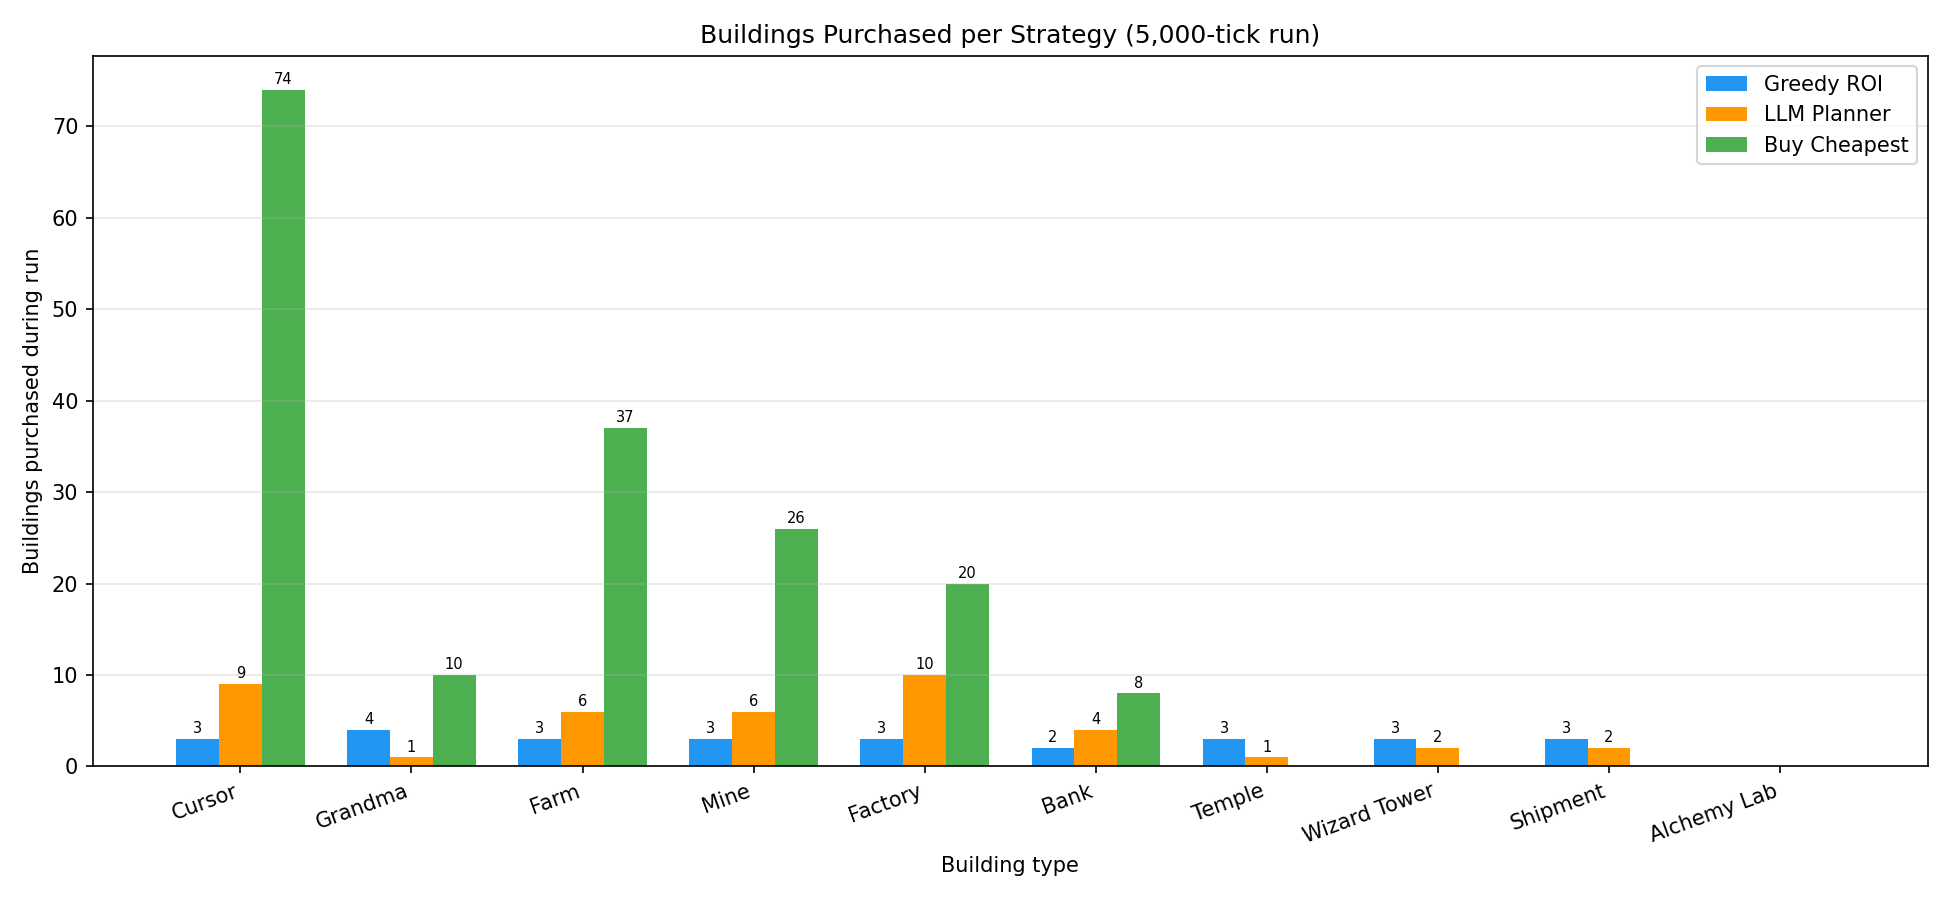
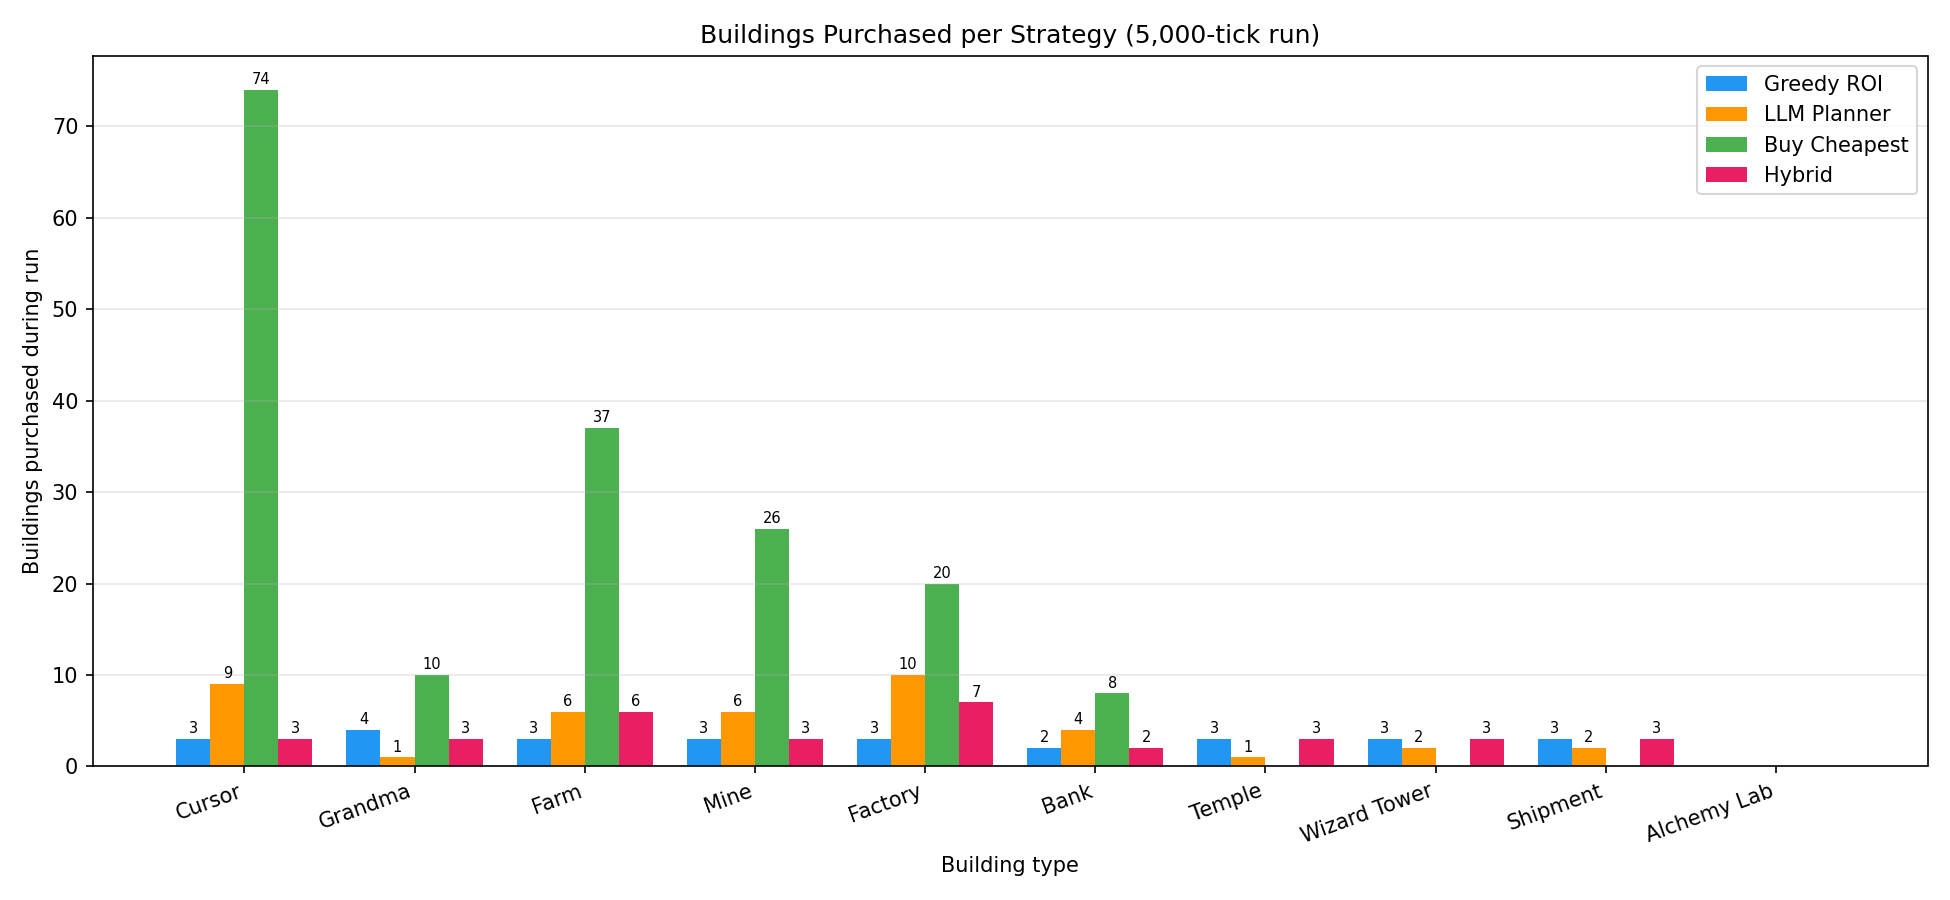
adds hybrid approach

diff --git a/analysis/visualize.py b/analysis/visualize.py
@@ -1,4 +1,4 @@
-"""Generate three comparison charts for the three cookie clicker strategies."""
+"""Generate comparison charts for the four cookie clicker strategies."""
 import matplotlib
 matplotlib.use("Agg")
 import matplotlib.pyplot as plt
@@ -8,6 +8,7 @@ import numpy as np
 C_GREEDY   = "#2196F3"
 C_LLM      = "#FF9800"
 C_CHEAPEST = "#4CAF50"
+C_HYBRID   = "#E91E63"
 
 BUILDING_COLORS = {
     "Cursor":       "#9E9E9E",
@@ -114,6 +115,57 @@ purchases_llm = [
     (3239,"buy_building","Shipment"),
 ]
 
+ts_hybrid = [
+    (100,7094876.19),(200,7094876.19),(300,7170896.35),(400,7182183.81),
+    (500,7330870.08),(600,7330870.08),(700,7330870.08),(800,7330870.08),
+    (900,7330870.08),(1000,7330870.08),(1100,7538256.75),(1200,7538256.75),
+    (1300,7538256.75),(1400,7538256.75),(1500,7538256.75),(1600,7538256.75),
+    (1700,7538256.75),(1800,7812032.32),(1900,7812032.32),(2000,7812032.32),
+    (2100,7812032.32),(2200,7812032.32),(2300,7812032.32),(2400,8019712.32),
+    (2500,8019712.32),(2600,8019712.32),(2700,8019712.32),(2800,8019712.32),
+    (2900,8019712.32),(3000,8019712.32),(3100,8279712.32),(3200,8279712.32),
+    (3300,8355590.72),(3400,8369782.83),(3500,8369782.83),(3600,8369782.83),
+    (3700,8369782.83),(3800,8369782.83),(3900,8369782.83),(4000,8577756.16),
+    (4100,8577756.16),(4200,8577756.16),(4300,8577756.16),(4400,8577756.16),
+    (4500,8577756.16),(4600,8577756.16),(4700,8577756.16),(4800,8837756.16),
+    (4900,8837756.16),(5000,8913760.96),
+]
+
+purchases_hybrid = purchases = [
+    (1,'buy_building','Bank'),
+    (2,'buy_building','Factory'),
+    (548,'buy_building','Wizard Tower'),
+    (1249,'buy_building','Shipment'),
+    (1258,'buy_building','Factory'),
+    (1269,'buy_building','Factory'),
+    (1281,'buy_building','Factory'),
+    (1296,'buy_building','Factory'),
+    (1312,'buy_building','Factory'),
+    (1398,'buy_upgrade','Factory tier 4'),
+    (1433,'buy_building','Grandma'),
+    (1631,'buy_building','Temple'),
+    (1632,'buy_building','Cursor'),
+    (1633,'buy_building','Farm'),
+    (1635,'buy_building','Mine'),
+    (1675,'buy_building','Grandma'),
+    (2278,'buy_building','Wizard Tower'),
+    (3012,'buy_building','Shipment'),
+    (3224,'buy_building','Temple'),
+    (3225,'buy_building','Cursor'),
+    (3226,'buy_building','Farm'),
+    (3242,'buy_building','Factory'),
+    (3285,'buy_building','Grandma'),
+    (3288,'buy_building','Mine'),
+    (3333,'buy_building','Bank'),
+    (3979,'buy_building','Wizard Tower'),
+    (4765,'buy_building','Shipment'),
+    (4993,'buy_building','Temple'),
+    (4994,'buy_building','Cursor'),
+    (4995,'buy_building','Farm'),
+]
+
+inv_hybrid = [58, 109, 67, 58, 51, 41, 34, 21, 3, 0]
+
 purchases_cheapest = [
     (1,"buy_building","Cursor"),(2,"buy_building","Cursor"),(3,"buy_building","Cursor"),
     (4,"buy_building","Cursor"),(5,"buy_building","Cursor"),(6,"buy_building","Cursor"),
@@ -187,6 +239,7 @@ inv_start    = [55, 106, 61, 55, 44, 39, 31, 18, 0, 0]
 delta_greedy   = [inv_greedy[i]   - inv_start[i] for i in range(10)]
 delta_llm      = [inv_llm[i]      - inv_start[i] for i in range(10)]
 delta_cheapest = [inv_cheapest[i] - inv_start[i] for i in range(10)]
+delta_hybrid   = [inv_hybrid[i]   - inv_start[i] for i in range(10)]
 
 
 # Chart 1: CpS over time
@@ -196,6 +249,7 @@ for ts, color, label in [
     (ts_greedy,   C_GREEDY,   "Greedy ROI"),
     (ts_llm,      C_LLM,      "LLM Planner"),
     (ts_cheapest, C_CHEAPEST, "Buy Cheapest"),
+    (ts_hybrid,   C_HYBRID,   "Hybrid"),
 ]:
     ticks = [t for t, _ in ts]
     cps   = [c / 1e6 for _, c in ts]
@@ -213,12 +267,13 @@ print("Saved results/chart_cps_over_time.png")
 
 
 # Chart 2: Purchase timeline
-fig2, axes = plt.subplots(3, 1, figsize=(14, 6), sharex=True)
+fig2, axes = plt.subplots(4, 1, figsize=(14, 8), sharex=True)
 
 strategy_data = [
     (purchases_greedy,   C_GREEDY,   "Greedy ROI",   axes[0]),
     (purchases_llm,      C_LLM,      "LLM Planner",  axes[1]),
     (purchases_cheapest, C_CHEAPEST, "Buy Cheapest",  axes[2]),
+    (purchases_hybrid,   C_HYBRID,   "Hybrid",        axes[3]),
 ]
 
 for purchases, strat_color, strat_label, ax in strategy_data:
@@ -240,7 +295,7 @@ for purchases, strat_color, strat_label, ax in strategy_data:
     ax.axhline(0, color="#cccccc", linewidth=0.8, zorder=1)
     ax.grid(axis="x", alpha=0.2)
 
-axes[2].set_xlabel("Tick (relative to game tick 35,000)")
+axes[3].set_xlabel("Tick (relative to game tick 35,000)")
 fig2.suptitle("Purchase Timeline — When Each Strategy Bought What", y=1.01)
 
 legend_handles = []
@@ -260,11 +315,12 @@ print("Saved results/chart_purchase_timeline.png")
 fig3, ax3 = plt.subplots(figsize=(13, 6))
 
 x = np.arange(len(BUILDINGS))
-width = 0.25
+width = 0.2
 
-bars_g = ax3.bar(x - width, delta_greedy,   width, label="Greedy ROI",  color=C_GREEDY)
-bars_l = ax3.bar(x,          delta_llm,      width, label="LLM Planner", color=C_LLM)
-bars_c = ax3.bar(x + width,  delta_cheapest, width, label="Buy Cheapest", color=C_CHEAPEST)
+bars_g = ax3.bar(x - 1.5*width, delta_greedy,   width, label="Greedy ROI",  color=C_GREEDY)
+bars_l = ax3.bar(x - 0.5*width, delta_llm,      width, label="LLM Planner", color=C_LLM)
+bars_c = ax3.bar(x + 0.5*width, delta_cheapest, width, label="Buy Cheapest", color=C_CHEAPEST)
+bars_h = ax3.bar(x + 1.5*width, delta_hybrid,   width, label="Hybrid",       color=C_HYBRID)
 
 ax3.set_xlabel("Building type")
 ax3.set_ylabel("Buildings purchased during run")
@@ -274,7 +330,7 @@ ax3.set_xticklabels(BUILDINGS, rotation=20, ha="right")
 ax3.legend()
 ax3.grid(axis="y", alpha=0.3)
 
-for bars in (bars_g, bars_l, bars_c):
+for bars in (bars_g, bars_l, bars_c, bars_h):
     for bar in bars:
         h = bar.get_height()
         if h > 0:

diff --git a/analysis/runner.py b/analysis/runner.py
@@ -6,7 +6,7 @@ from game.models import GameState
 from strategies.base import Strategy
 
 
-def print_report(time_series, owned, tier_upgrades, grandma_synergy, total_baked, purchase_ticks, purchased_upgrades, llm_calls=None, elapsed=None):
+def print_report(time_series, owned, tier_upgrades, grandma_synergy, total_baked, purchase_ticks, purchase_events, purchased_upgrades, llm_calls=None, elapsed=None):
     print("\n--- Time Series (every 100 ticks) ---")
     print(f"{'Tick':>6} | {'CpS':>12} | {'Bank':>14} | {'Total Baked':>16}")
     print("-" * 58)
@@ -31,6 +31,11 @@ def print_report(time_series, owned, tier_upgrades, grandma_synergy, total_baked
         print("\nUpgrades purchased:")
         for u in purchased_upgrades:
             print(f"  {u}")
+    print("\nPurchase events (paste into visualize.py):")
+    print("purchases = [")
+    for tick, kind, name in purchase_events:
+        print(f"    ({tick},{repr(kind)},{repr(name)}),")
+    print("]")
     print("\nBuildings owned & CpS share:")
     for i, (name, _, _) in enumerate(BUILDINGS):
         pct = (contribs[i] / final_cps * 100) if final_cps > 0 else 0.0
@@ -56,6 +61,7 @@ def run_simulation(strategy: Strategy, ticks=1000, resume_from: str | None = Non
     start = time.time()
     time_series = []
     purchase_ticks = []
+    purchase_events = []  # (tick, "buy_building"/"buy_upgrade", name)
     purchased_upgrades = []
 
     for tick in range(1, ticks + 1):
@@ -69,12 +75,15 @@ def run_simulation(strategy: Strategy, ticks=1000, resume_from: str | None = Non
             cookies -= action.cost
             if action.kind == "building":
                 owned[action.idx] += 1
+                purchase_events.append((tick, "buy_building", action.name))
             elif action.kind == "tier":
                 tier_upgrades[action.idx] += 1
                 purchased_upgrades.append(action.name)
+                purchase_events.append((tick, "buy_upgrade", action.name))
             elif action.kind == "grandma_synergy":
                 grandma_synergy[action.idx] = True
                 purchased_upgrades.append(action.name)
+                purchase_events.append((tick, "buy_upgrade", action.name))
             purchase_ticks.append(tick)
 
         if tick % 100 == 0:
@@ -87,7 +96,7 @@ def run_simulation(strategy: Strategy, ticks=1000, resume_from: str | None = Non
 
     elapsed = time.time() - start
     llm_calls = getattr(strategy, "llm_calls", None)
-    print_report(time_series, owned, tier_upgrades, grandma_synergy, total_baked, purchase_ticks, purchased_upgrades, llm_calls, elapsed)
+    print_report(time_series, owned, tier_upgrades, grandma_synergy, total_baked, purchase_ticks, purchase_events, purchased_upgrades, llm_calls, elapsed)
     if save_to:
         _, cps = compute_building_cps(owned, tier_upgrades, grandma_synergy)
         save_state(GameState(cookies, owned, tier_upgrades, grandma_synergy, cps, total_baked), save_to)

diff --git a/strategies/hybrid.py b/strategies/hybrid.py
@@ -1,0 +1,67 @@
+from game.config import BUILDINGS
+from game.engine import building_cost, available_upgrades
+from game.models import GameState, Action
+from strategies.base import Strategy, _cps_delta
+from strategies.llm_planner import LLMPlannerStrategy
+
+
+class HybridStrategy(Strategy):
+    """LLM planner with greedy ROI fallback while saving for planned purchases."""
+
+    def __init__(self, sim_length=1000, plan_save_path=None):
+        self._llm = LLMPlannerStrategy(sim_length=sim_length, plan_save_path=plan_save_path)
+
+    @property
+    def llm_calls(self):
+        return self._llm.llm_calls
+
+    def decide(self, state: GameState) -> Action | None:
+        action = self._llm.decide(state)
+        if action is not None:
+            return action
+
+        # LLM is waiting — run greedy ROI, but protect cookies reserved for next planned item.
+        next_cost = self._next_planned_cost(state)
+        return self._greedy_decide(state, next_cost)
+
+    def _next_planned_cost(self, state: GameState) -> float | None:
+        if not self._llm._plan:
+            return None
+        resolved = self._llm._resolve(self._llm._plan[0], state)
+        return resolved.cost if resolved is not None else None
+
+    def _greedy_decide(self, state: GameState, reserved: float | None) -> Action | None:
+        if state.cps == 0:
+            return None
+
+        candidates = []
+
+        for i, (name, bc, _) in enumerate(BUILDINGS):
+            cost = building_cost(bc, state.owned[i])
+            action = Action("building", i, cost, name)
+            delta = _cps_delta(state, action)
+            if delta > 0:
+                payback = max(0, (cost - state.cookies) / state.cps) + cost / delta
+                candidates.append((payback, action))
+
+        for cost, utype, idx, uname in available_upgrades(state.owned, state.tier_upgrades, state.grandma_synergy):
+            action = Action(utype, idx, cost, uname)
+            delta = _cps_delta(state, action)
+            if delta > 0:
+                payback = max(0, (cost - state.cookies) / state.cps) + cost / delta
+                candidates.append((payback, action))
+
+        if not candidates:
+            return None
+
+        best = min(candidates, key=lambda x: x[0])[1]
+
+        if state.cookies < best.cost:
+            return None
+
+        # Skip if buying now would leave us unable to afford the next planned item.
+        ticks_to_afford = max(0, (reserved - state.cookies) / state.cps) if state.cps > 0 else float('inf')
+        if reserved is not None  and ticks_to_afford < 50 and  state.cookies - best.cost < reserved:
+            return None
+
+        return best

diff --git a/main.py b/main.py
@@ -3,12 +3,14 @@ import argparse
 from analysis.runner import run_simulation
 from strategies.cheapest import CheapestStrategy
 from strategies.greedy_roi import GreedyROIStrategy
+from strategies.hybrid import HybridStrategy
 from strategies.llm_planner import LLMPlannerStrategy
 
 STRATEGIES = {
     "cheapest": lambda ticks: CheapestStrategy(),
     "greedy":   lambda ticks: GreedyROIStrategy(),
     "llm":      lambda ticks: LLMPlannerStrategy(sim_length=ticks, plan_save_path="results/plan.json"),
+    "hybrid":   lambda ticks: HybridStrategy(sim_length=ticks, plan_save_path="results/plan_hybrid.json"),
 }
 
 parser = argparse.ArgumentParser(description="Cookie Clicker simulation")
